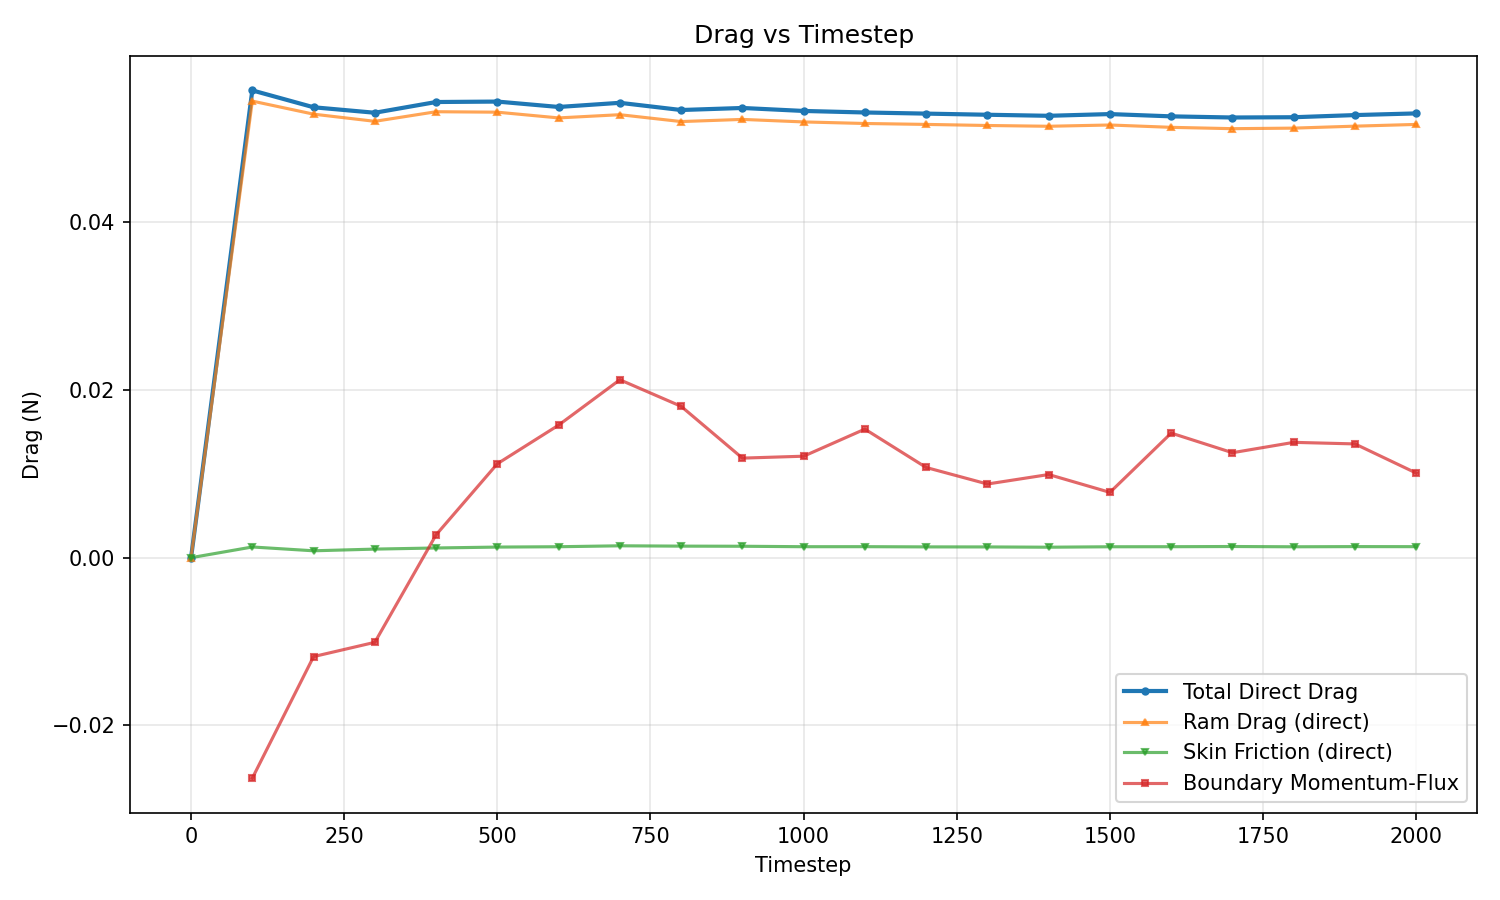
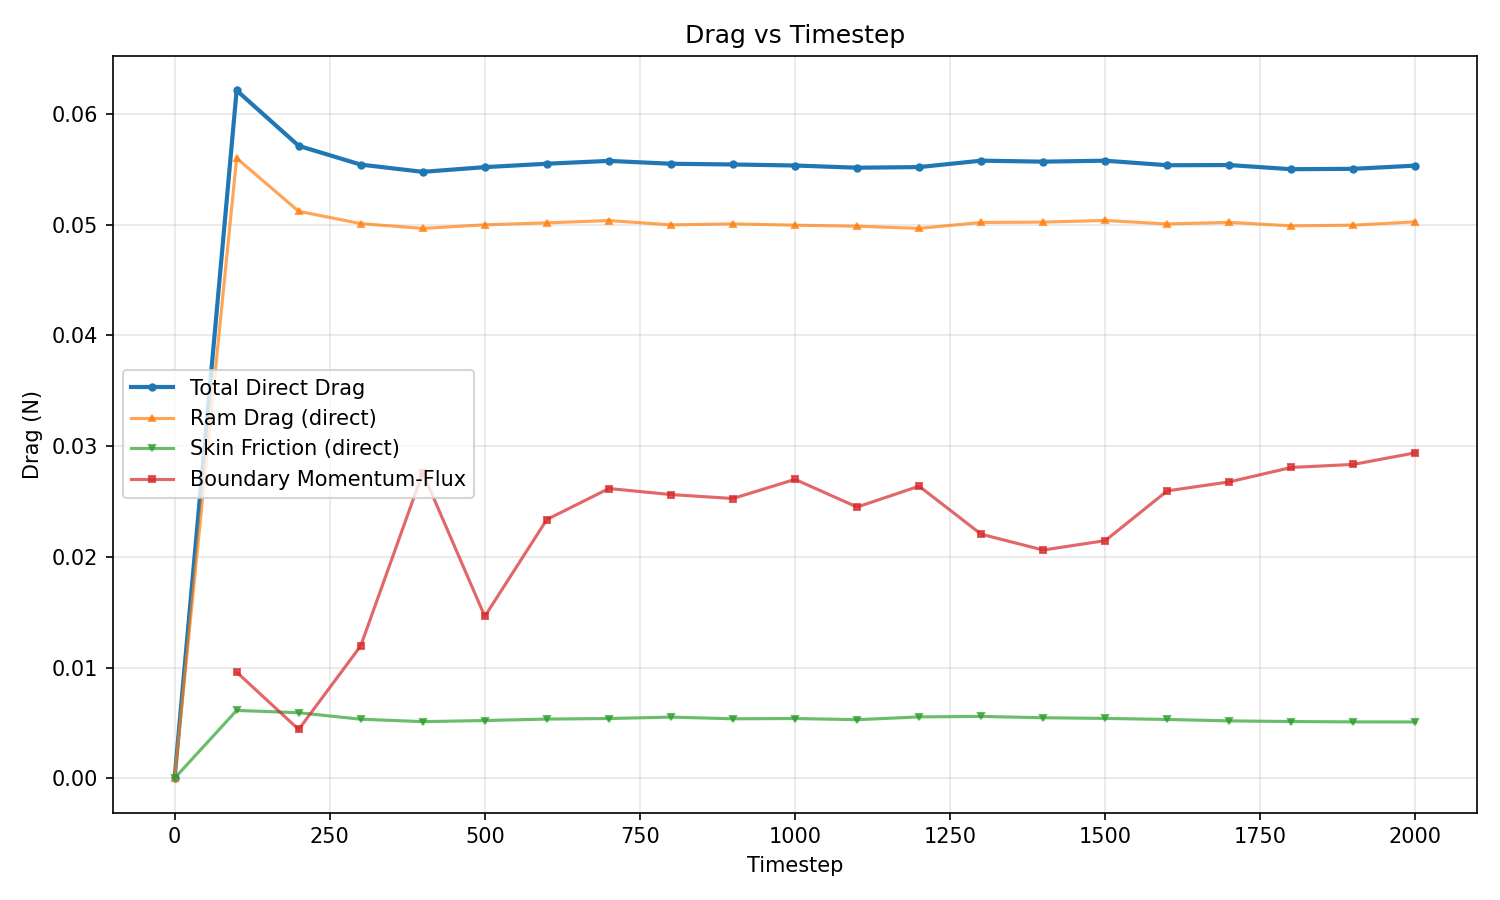
hard set msis 2.1, fully diffuse cube test

diff --git a/tools/load_atm_data.py b/tools/load_atm_data.py
@@ -42,7 +42,7 @@ if not os.path.exists(data_file):
         utc = datetime.datetime(2011, 4, 10, 12, 0)
         times = np.array([utc], dtype='datetime64')
         
-        atmosphere = pymsis.calculate(times, [lon], [lat], alt_km)
+        atmosphere = pymsis.calculate(times, [lon], [lat], alt_km, version=2.1)
         
         T = np.squeeze(atmosphere[..., pymsis.Variable.TEMPERATURE])
         rho = np.squeeze(atmosphere[..., pymsis.Variable.MASS_DENSITY])
@@ -108,12 +108,12 @@ n_Ar = np.nan_to_num(n_Ar)
 n_N  = np.nan_to_num(n_N)
 
 n_total = n_N2 + n_O2 + n_O + n_He + n_Ar + n_N
-frac_N2 = n_N2 / n_total
-frac_O2 = n_O2 / n_total
-frac_O  = n_O / n_total
-frac_He = n_He / n_total
-frac_Ar = n_Ar / n_total
-frac_N  = 1.0 - frac_N2 - frac_O2 - frac_O - frac_He - frac_Ar  # ensure sum = 1 or sparta crashes
+frac_N2 = round(n_N2 / n_total, 4)
+frac_O2 = round(n_O2 / n_total, 4)
+frac_O  = round(n_O / n_total, 4)
+frac_He = round(n_He / n_total, 4)
+frac_Ar = round(n_Ar / n_total, 4)
+frac_N  = 1.0 - (frac_N2 + frac_O2 + frac_O + frac_He + frac_Ar)
 
 # write sparta include file with all atmospheric data
 with open(os.path.join(data_dir, 'atm.sparta'), 'w') as f:
